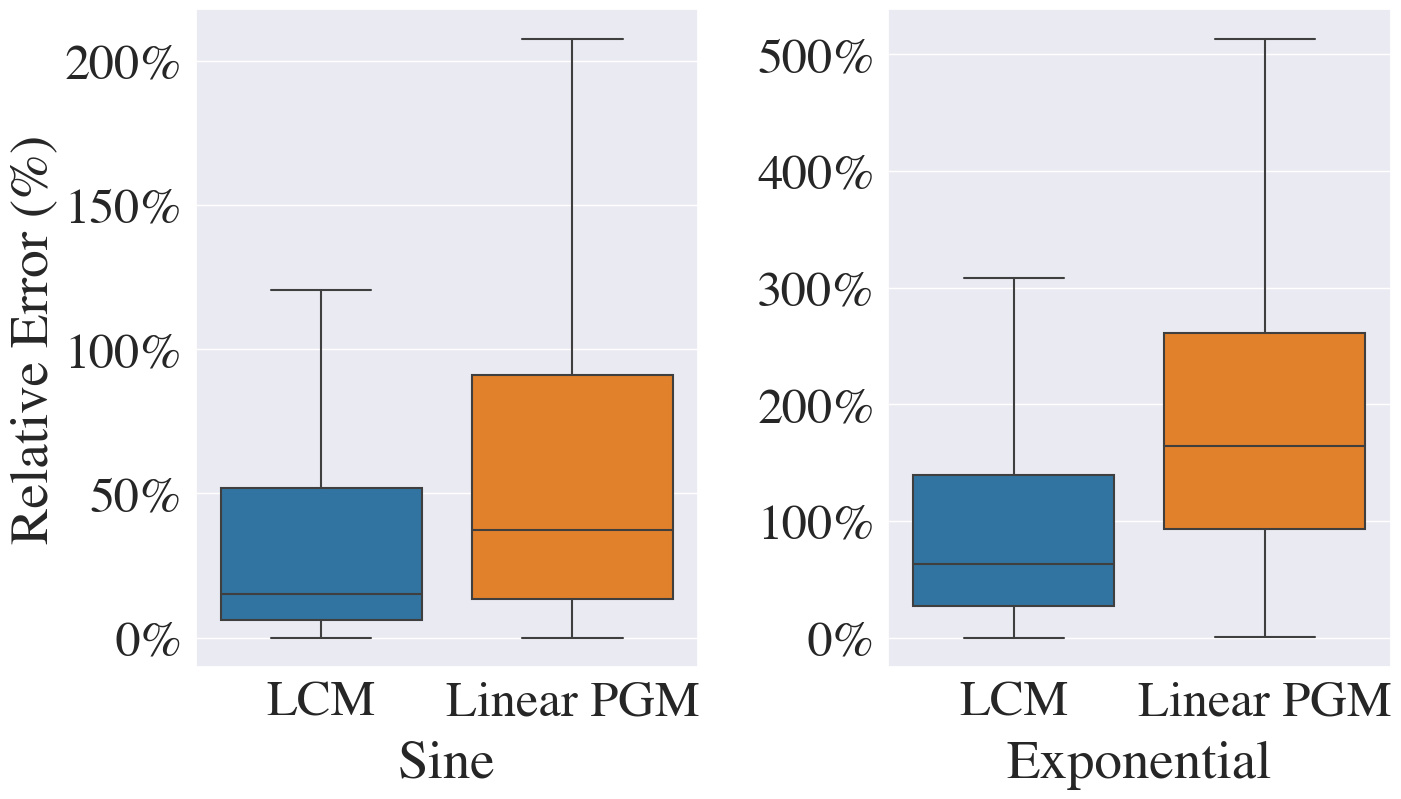
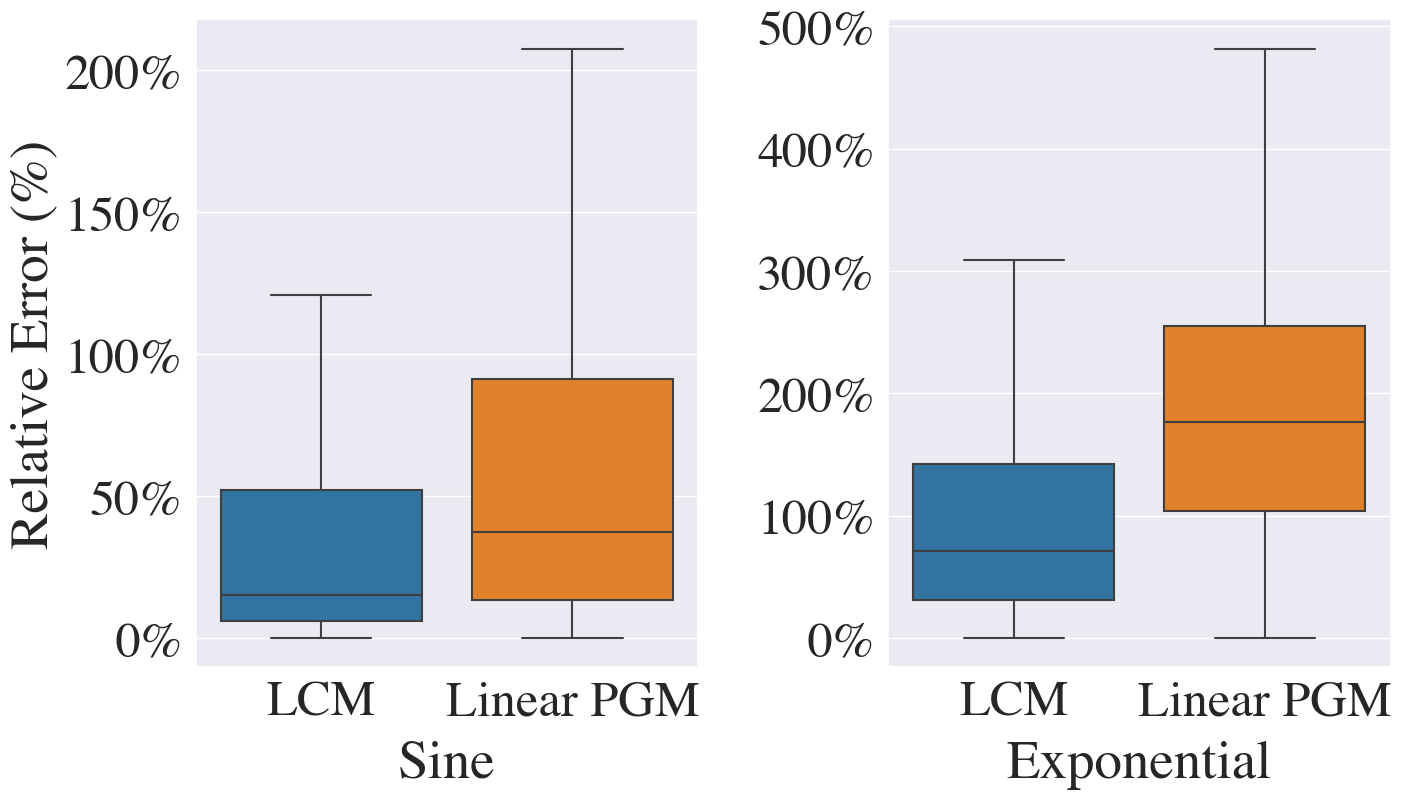
lcm vs fi

diff --git a/Experiments/scaling/plotting/scaling_all.py b/Experiments/scaling/plotting/scaling_all.py
@@ -1,0 +1,158 @@
+from glob import glob
+import os
+import pandas as pd
+import matplotlib.pyplot as plt
+import numpy as np
+import seaborn as sns
+
+num_samples_folder = glob(f"{os.getenv('RESULTS_FOLDER')}/num_samples/*", recursive=True)
+num_covs_folder = glob(f"{os.getenv('RESULTS_FOLDER')}/num_covs/*", recursive=True)
+
+n_repeats = 20
+methods = [
+    'LCM',
+    'MALTS',
+    'GenMatch'
+    'AHB'
+]
+
+q = 0.5
+sample_times_cols = ['Method', 'Time (s)', '# Samples']
+covs_times_cols = ['Method', 'Time (s)', '# Covariates']
+samples_times = pd.DataFrame([], columns=sample_times_cols)
+covs_times = pd.DataFrame([], columns=covs_times_cols)
+failed_files = {}
+name_to_label = {}
+methods_dirs = {
+    'LCM': 'lcm_fit_times',
+    'MALTS': 'malts_fit_times',
+    'GenMatch': 'genmatch_fit_times',
+    'AHB': 'ahb_fit_times'
+}
+
+for f in num_samples_folder:
+    times = {}
+    for m, d in methods_dirs.items():
+        if os.path.isdir(f'{f}/{d}'):
+            these_times = []
+            for t in glob(f'{f}/{d}/*.txt'):
+                try:
+                    with open(t) as this_f:
+                        if m == 'AHB':
+                            these_times.append(
+                                float(this_f.readlines()[-1].replace('\n', '')))
+                        else:
+                            these_times.append(float(this_f.readline().replace('\n', '')))
+                except Exception:
+                    pass
+            if len(these_times) != n_repeats:
+                this_file = '-'.join(f.split('/')[-2:])
+                if this_file in failed_files:
+                    failed_files[this_file].append(m)
+                else:
+                    failed_files[this_file] = [m]
+                print(f'Failed {m} for {this_file}')
+                print(f'Missing {n_repeats - len(these_times)} times.\n')
+            else:
+                times[m] = these_times
+        else:
+            this_file = '-'.join(f.split('/')[-2:])
+            if this_file in failed_files:
+                failed_files[this_file].append(m)
+            else:
+                failed_files[this_file] = [m]
+            print(f'Failed {m} for {this_file}')
+    if len(times) > 0:
+        times = pd.melt(pd.DataFrame.from_dict(times), var_name='Method', value_name='Time (s)')
+        times['# Samples'] = int(f.split('/')[-1])
+        samples_times = pd.concat([samples_times, times.copy()])
+
+
+for f in num_covs_folder:
+    times = {}
+    for m, d in methods_dirs.items():
+        if os.path.isdir(f'{f}/{d}'):
+            these_times = []
+            for t in glob(f'{f}/{d}/*.txt'):
+                try:
+                    with open(t) as this_f:
+                        if m == 'AHB':
+                            these_times.append(
+                                float(this_f.readlines()[-1].replace('\n', '')))
+                        else:
+                            these_times.append(float(this_f.readline().replace('\n', '')))
+                except Exception:
+                    pass
+            if len(these_times) != n_repeats:
+                this_file = '-'.join(f.split('/')[-2:])
+                if this_file in failed_files:
+                    failed_files[this_file].append(m)
+                else:
+                    failed_files[this_file] = [m]
+                print(f'Failed {m} for {this_file}')
+                print(f'Missing {n_repeats - len(these_times)} times.\n')
+            else:
+                times[m] = these_times
+        else:
+            this_file = '-'.join(f.split('/')[-2:])
+            if this_file in failed_files:
+                failed_files[this_file].append(m)
+            else:
+                failed_files[this_file] = [m]
+            print(f'Failed {m} for {this_file}')
+    if len(times) > 0:
+        times = pd.melt(pd.DataFrame.from_dict(times), var_name='Method', value_name='Time (s)')
+        times['# Covariates'] = int(f.split('/')[-1])
+        covs_times = pd.concat([covs_times, times.copy()])
+
+# for k in failed_files:
+#     test, num = k.split('-')
+#     if test == 'num_samples':
+#         samples_times = samples_times.loc[samples_times['# Samples'] != int(num)]
+#     elif test == 'num_covs':
+#         covs_times = covs_times.loc[covs_times['# Covariates'] != int(num)+8]
+
+order = ['LCM', 'Linear PGM', 'Ensemble PGM', 'MALTS', '', '',  'GenMatch', 'AHB']
+palette = {order[i]: sns.color_palette()[i] for i in range(len(order))}
+method_order = [c for c in order if c in samples_times['Method'].unique()]
+markers = ['o', '^', 's', 'p']
+
+samples_times[r"# Samples $_{\left(\log_2\right)}$"] = np.log2(samples_times['# Samples'].astype(int))
+samples_times[r"# Samples $_{\left(\log_2\right)}$"] = samples_times[r"# Samples $_{\left(\log_2\right)}$"].astype(int)
+
+covs_times[r"# Covariates $_{\left(\log_2\right)}$"] = np.log2(covs_times['# Covariates'].astype(int))
+covs_times[r"# Covariates $_{\left(\log_2\right)}$"] = covs_times[r"# Covariates $_{\left(\log_2\right)}$"].astype(int)
+
+
+sns.set_context("paper")
+sns.set_style("darkgrid")
+sns.set(font_scale=2, font="times")
+fig, axes = plt.subplots(1, 2, figsize=(9, 6))
+sns.pointplot(ax=axes[0], data=samples_times, x=r"# Samples $_{\left(\log_2\right)}$", y='Time (s)',
+              errorbar='sd', hue='Method',
+              hue_order=method_order, palette=palette, markers=markers, scale=1.25)
+sns.pointplot(ax=axes[1], data=covs_times, x=r"# Covariates $_{\left(\log_2\right)}$", y='Time (s)',
+              errorbar='sd', hue='Method',
+              hue_order=method_order, palette=palette, markers=markers, scale=1.25)
+handles, labels = axes[0].get_legend_handles_labels()
+fig.legend(handles, labels, loc="lower center", bbox_to_anchor=(.53, 0.93),
+           ncol=4, fontsize=22, handletextpad=0.2,
+           columnspacing=0.5, markerscale=2)
+for ax in axes:
+    ax.get_legend().remove()
+    ax.set_yscale('log')
+axes[1].set_ylabel(ylabel=None)
+fig.tight_layout()
+fig.savefig(f'scaling_all.png', bbox_inches='tight')
+
+# plt.figure(figsize=(9, 6))
+# sns.set_context("paper")
+# sns.set_style("darkgrid")
+# sns.set(font_scale=2, font="times")
+# ax = sns.pointplot(data=samples_times, x=r"# Samples $_{\left(\log_2\right)}$", y='Time (s)',
+#               errorbar='sd', hue='Method',
+#               hue_order=method_order, palette=palette, markers=markers, scale=1.25)
+# sns.move_legend(ax, "lower center", bbox_to_anchor=(.47, 1.02), ncol=3,
+#                 title=None, handletextpad=0.4, columnspacing=0.5, fontsize=20)
+# plt.tight_layout()
+# ax.get_figure().savefig(f'scaling_all.png')

diff --git a/Experiments/cate_error/cate_error.py b/Experiments/cate_error/cate_error.py
@@ -24,7 +24,7 @@ np.random.seed(0)
 random_state = 0
 
 method_order = ['LCM', 'Linear PGM', 'Nonparametric PGM', 'MALTS', 'Causal Forest',
-                'Causal Forest DML', 'Linear DML', 'BART', 'LASSO FS']
+                'Causal Forest DML', 'Linear DML', 'BART', 'LASSO FS', 'Oracle FS']
 
 
 def cate_error_test(dataset, n_splits, dataset_config, methods, n_repeats,
@@ -118,10 +118,28 @@ def cate_error_test(dataset, n_splits, dataset_config, methods, n_repeats,
         if 'lasso fs' in methods:
             method_name = 'LASSO FS'
             start = time.time()
-            with warnings.catch_warnings(record=True) as warning_list:
-                lcm.fit(model='linear', separate_treatments=True, equal_weights=True)
-                lcm.MG(k=k_est_mean)
-                lcm.CATE(cate_methods=['mean'], diameter_prune=None)
+            lcm.M_list = [np.where(m > 0, 1, 0) for m in lcm.M_list]
+            lcm.MG(k=k_est_mean)
+            lcm.CATE(cate_methods=['mean'], diameter_prune=None)
+            times[method_name] = time.time() - start
+            df_err = pd.concat([df_err,
+                                get_errors(lcm.cate_df[['avg.CATE_mean']],
+                                           df_true[['TE']],
+                                           method_name=method_name,
+                                           scale=scaling_factor,
+                                           iter=iter)
+                                ])
+            print(f'\n{method_name} method complete: {time.time() - start}')
+            summarize_warnings(warning_list, method_name)
+            print()
+
+            method_name = 'Oracle FS'
+            start = time.time()
+            lcm.M_list = [np.concatenate([np.ones(dataset_config['imp_c'],),
+                                          np.zeros(dataset_config['unimp_c'],)])
+                          for i in range(n_splits)]
+            lcm.MG(k=k_est_mean)
+            lcm.CATE(cate_methods=['mean'], diameter_prune=None)
             times[method_name] = time.time() - start
             df_err = pd.concat([df_err,
                                 get_errors(lcm.cate_df[['avg.CATE_mean']],

diff --git a/Experiments/cate_error/replot_fi.py b/Experiments/cate_error/replot_fi.py
@@ -1,0 +1,51 @@
+import pandas as pd
+import matplotlib
+import matplotlib.pyplot as plt
+import matplotlib.ticker as ticker
+import seaborn as sns
+
+exp = pd.read_csv('Results/exp_003/df_err.csv')
+sine = pd.read_csv('Results/sine_003/df_err.csv')
+quad = pd.read_csv('Results/dense_continuous_003/df_err.csv')
+
+rename = {'LASSO FS': 'LASSO\nFS', 'Oracle FS': 'Oracle\nFS'}
+exp['Method'] = exp['Method'].replace(rename)
+sine['Method'] = sine['Method'].replace(rename)
+quad['Method'] = quad['Method'].replace(rename)
+order = ['LCM', 'LASSO\nFS', 'Oracle\nFS']
+palette = {
+    'LCM': sns.color_palette()[0],
+    'LASSO\nFS': sns.color_palette()[8],
+    'Oracle\nFS': sns.color_palette()[9],
+           }
+
+sns.set_context("paper")
+sns.set_style("darkgrid")
+sns.set(font_scale=2, font="times")
+fig, axes = plt.subplots(1, 3, figsize=(18, 6))
+sns.boxplot(ax=axes[0], data=sine,
+            x='Method', y='Relative Error (%)',
+            showfliers=False,
+            order=order,
+            palette=palette)
+sns.boxplot(ax=axes[1], data=exp,
+            x='Method', y='Relative Error (%)',
+            showfliers=False,
+            order=order,
+            palette=palette)
+sns.boxplot(ax=axes[2], data=quad,
+            x='Method', y='Relative Error (%)',
+            showfliers=False,
+            order=order,
+            palette=palette)
+
+axes[0].set_xlabel(xlabel='Sine', labelpad=10, fontdict={'weight': 'bold'})
+axes[1].set_xlabel(xlabel='Exponential', labelpad=10, fontdict={'weight': 'bold'})
+axes[2].set_xlabel(xlabel='Quadratic', labelpad=10, fontdict={'weight': 'bold'})
+axes[0].yaxis.set_major_formatter(ticker.PercentFormatter())
+axes[1].yaxis.set_major_formatter(ticker.PercentFormatter())
+axes[2].yaxis.set_major_formatter(ticker.PercentFormatter())
+axes[1].set_ylabel(ylabel=None)
+axes[2].set_ylabel(ylabel=None)
+fig.tight_layout()
+fig.savefig(f'lcm_vs_fs.png', bbox_inches='tight')

diff --git a/Experiments/metalearner/replot.py b/Experiments/metalearner/replot.py
@@ -72,13 +72,15 @@ sns.move_legend(ax, "lower center", bbox_to_anchor=(.36, 1.02), ncol=3,
 plt.tight_layout()
 ax.get_figure().savefig(f'Results/metalearner_barplot_weights.png')
 
+mg_diffs['Method'] = mg_diffs['Method'].str.replace('MGs', 'KNN')
+mg_diffs['Covariate'] = mg_diffs['Covariate'].apply(lambda x: f'X{int(x[-1])+1}')
 
-palette = {'LCM\nControl MGs': sns.color_palette()[0],
-            'LCM\nTreatment MGs': sns.color_palette()[9],
-           'Metalearner LCM\nControl MGs': sns.color_palette()[7],
-           'Metalearner LCM\nTreatment MGs': sns.color_palette()[8]}
-order = ['LCM\nControl MGs', 'LCM\nTreatment MGs',
-         'Metalearner LCM\nControl MGs', 'Metalearner LCM\nTreatment MGs']
+palette = {'LCM\nControl KNN': sns.color_palette()[0],
+            'LCM\nTreatment KNN': sns.color_palette()[9],
+           'Metalearner LCM\nControl KNN': sns.color_palette()[7],
+           'Metalearner LCM\nTreatment KNN': sns.color_palette()[8]}
+order = ['LCM\nControl KNN', 'LCM\nTreatment KNN',
+         'Metalearner LCM\nControl KNN', 'Metalearner LCM\nTreatment KNN']
 
 plt.figure(figsize=(6, 7))
 sns.set_context("paper")
@@ -86,7 +88,7 @@ sns.set_style("darkgrid")
 sns.set(font_scale=2, font="times")
 ax = sns.boxplot(x='Covariate', y='Mean Absolute Difference', hue='Method',
                  data=mg_diffs, showfliers=False,
-                 order=[f'X{i}' for i in range(x_imp)], palette=palette,
+                 order=[f'X{i}' for i in range(1,x_imp+1)], palette=palette,
                  hue_order=order)
 sns.move_legend(ax, "lower center", bbox_to_anchor=(.45, 1), ncol=2, title=None,
                 handletextpad=0.4, columnspacing=0.5, fontsize=18)

diff --git a/Experiments/cate_error/run.py b/Experiments/cate_error/run.py
@@ -8,7 +8,7 @@ from Experiments.cate_error.cate_error import cate_error_test
 iters = 1
 n_repeats = 1
 print_progress = True
-k_est_mean = 5
+k_est_mean = 10
 k_est_linear = 40
 
 custom_iters = None
@@ -40,11 +40,11 @@ for data in datasets:
     dataset_config = {'n_train': 0}
     if 'dense' in data:
         n_splits = 5
-        dataset_config['num_samples'] = 2500
+        dataset_config['num_samples'] = 5000
         dataset_config['std'] = 1.5
         if 'continuous' in data:
-            dataset_config['imp_c'] = 10
-            dataset_config['unimp_c'] = 90
+            dataset_config['imp_c'] = 5
+            dataset_config['unimp_c'] = 95
             dataset_config['imp_d'] = 0
             dataset_config['unimp_d'] = 0
         elif 'discrete' in data:
@@ -85,7 +85,7 @@ for data in datasets:
         # ea8ec4f5364049a19cb6cf92df0e2593
         # f2e5cac9902246fba6e5a5c3b11d1605
 
-    cate_error_test(dataset=data, n_splits=2,
+    cate_error_test(dataset=data, n_splits=n_splits,
                     dataset_config=dataset_config,
                     methods=methods, n_repeats=n_repeats,
                     k_est_mean=k_est_mean, k_est_linear=k_est_linear,
